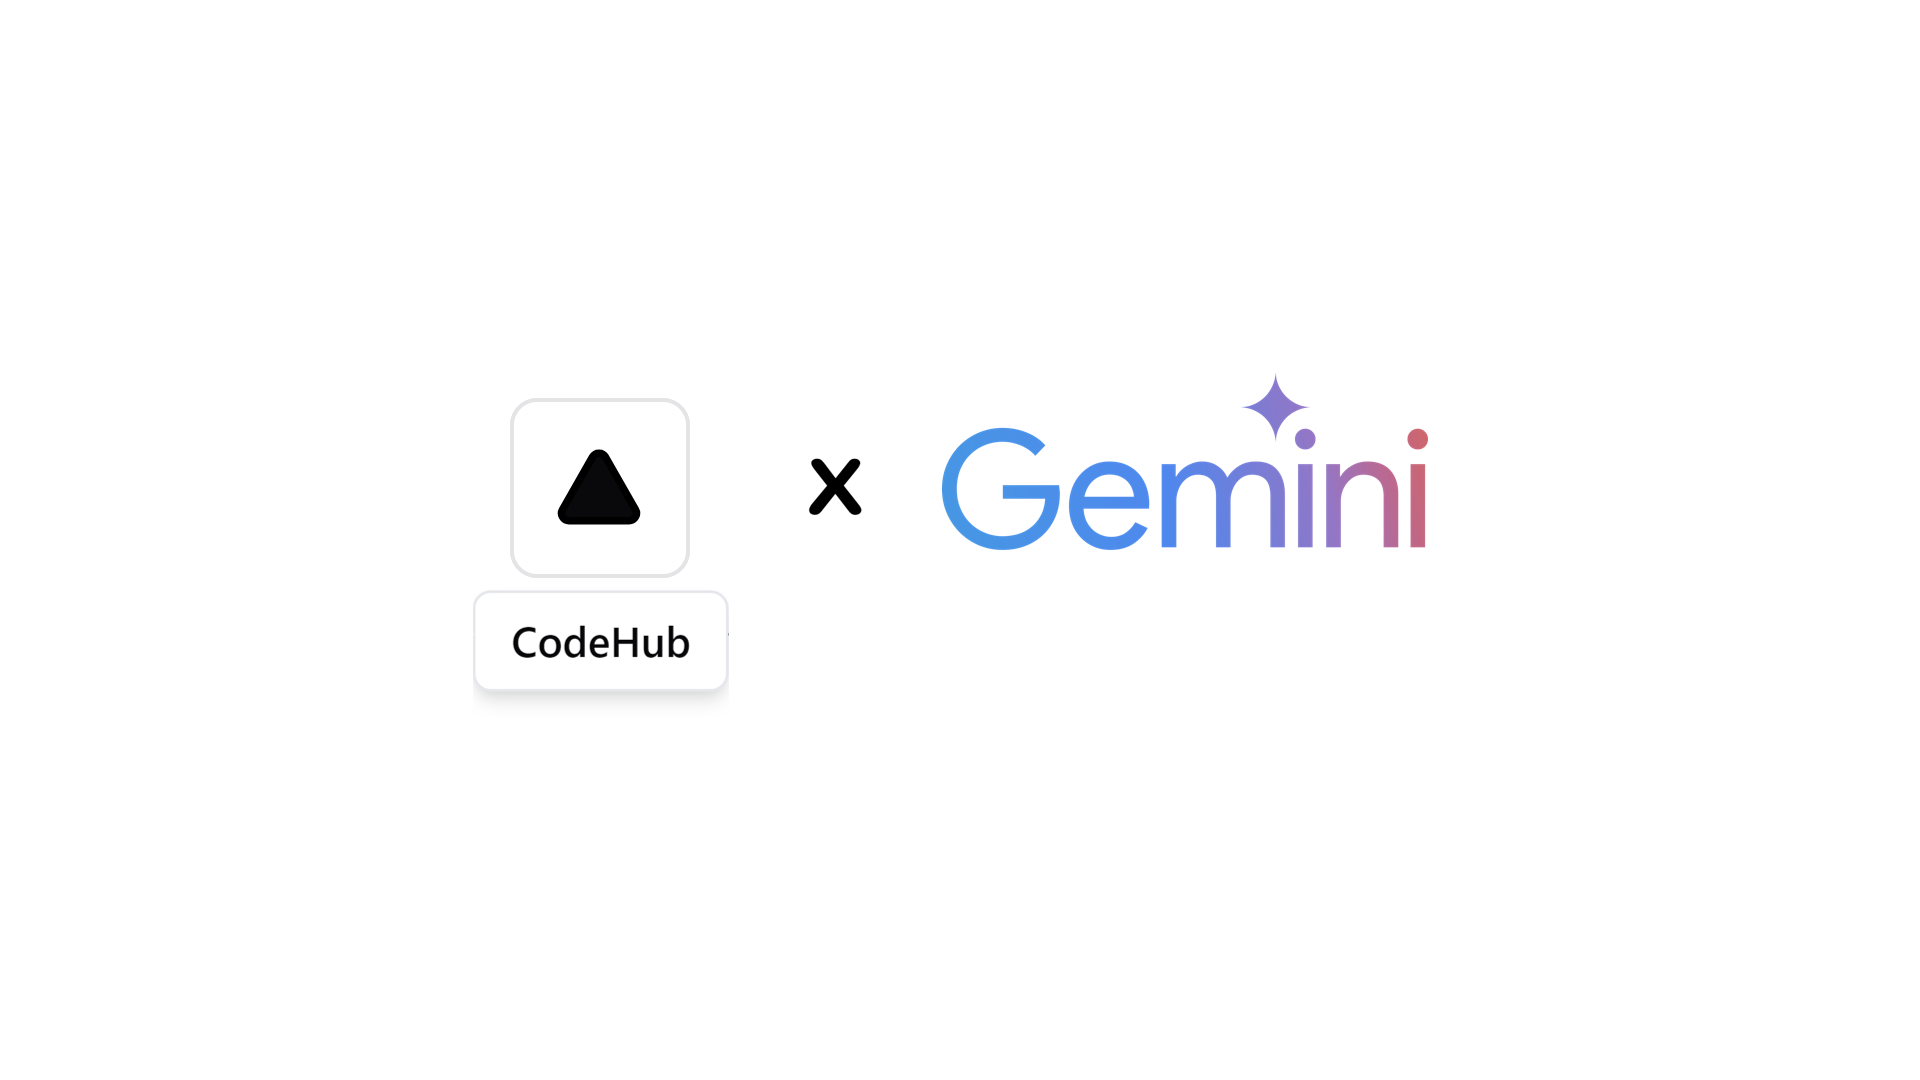
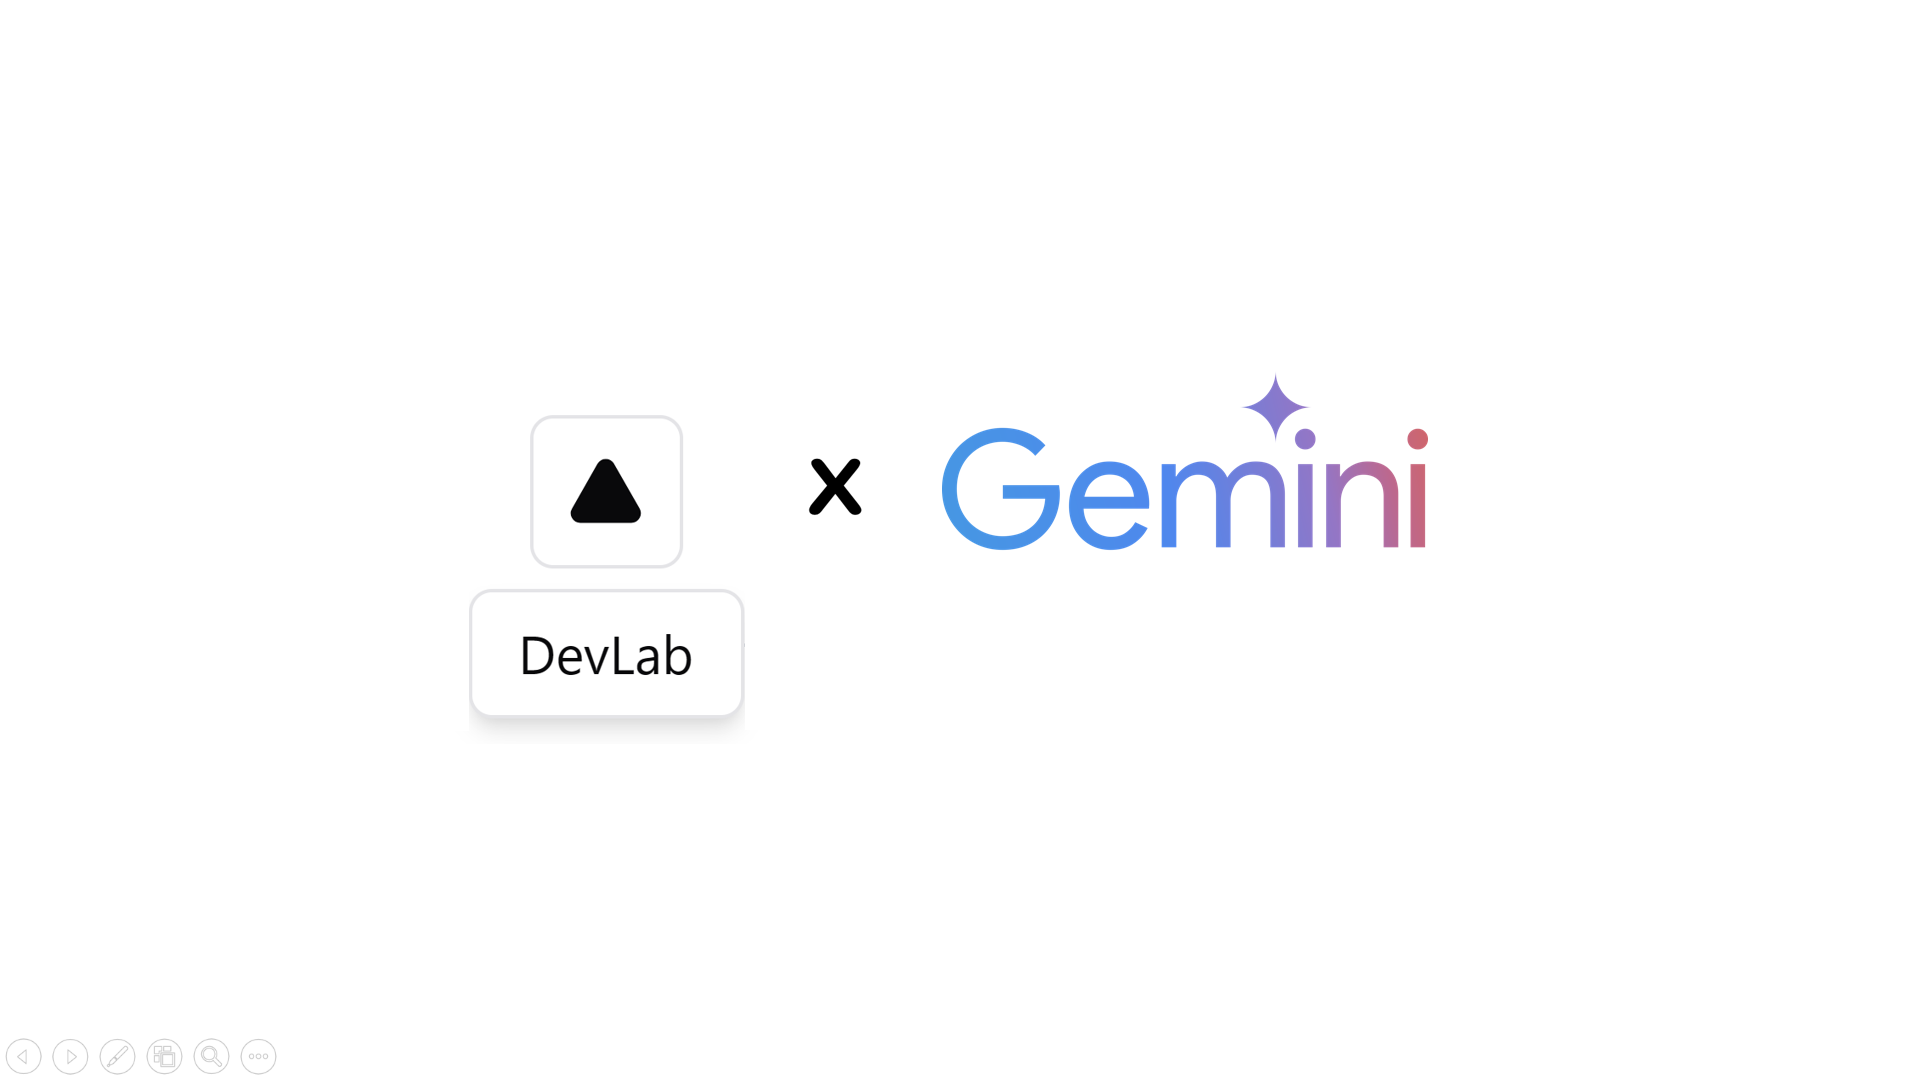
Some minor adjustments

diff --git a/app/src/container/Home/pages/IndexHome/components/PlanOptions.jsx b/app/src/container/Home/pages/IndexHome/components/PlanOptions.jsx
@@ -1,0 +1,124 @@
+import { Check } from 'lucide-react';
+
+const tiers = [
+    {
+        name: 'Starter',
+        id: 'tier-starter',
+        href: '#',
+        priceMonthly: 'Free',
+        description: "The perfect plan to kickstart your learning journey with DevLab.",
+        features: [' Access to basic courses (e.g., Introduction to Python, Java, and C++)', ' Solve coding challenges up to intermediate difficulty', 'Run and test code in 5 programming languages', 'AI-based feedback on 10 submissions per month', 'Community access for peer learning'],
+        featured: false,
+    },
+    {
+        name: 'Pro',
+        id: 'tier-Pro',
+        href: '#',
+        priceMonthly: '$9.99',
+        description: 'Take your coding skills to the next level with our Pro Plan. Enjoy advanced features designed for serious learners and professionals.',
+        features: [
+            'Access to all advanced courses (e.g., Data Structures, Algorithms, and System Design)',
+            'Unlimited access to coding challenges',
+            'AI-based feedback on unlimited submissions',
+            'Detailed code execution visualization',
+            'Custom integrationsExclusive insights into your learning progress',
+            'Priority support (24/7)',
+        ],
+        featured: true,
+    },
+]
+
+function plans(...classes) {
+    return classes.filter(Boolean).join(' ')
+}
+
+export default function PlanOptions() {
+    return (
+        <div className="relative isolate bg-white px-6 py-16 sm:py-16 lg:px-8">
+            <div aria-hidden="true" className="absolute inset-x-0 -top-3 -z-10 transform-gpu overflow-hidden px-36 blur-3xl">
+                <div
+                    style={{
+                        clipPath:
+                            'polygon(74.1% 44.1%, 100% 61.6%, 97.5% 26.9%, 85.5% 0.1%, 80.7% 2%, 72.5% 32.5%, 60.2% 62.4%, 52.4% 68.1%, 47.5% 58.3%, 45.2% 34.5%, 27.5% 76.7%, 0.1% 64.9%, 17.9% 100%, 27.6% 76.8%, 76.1% 97.7%, 74.1% 44.1%)',
+                    }}
+                    className="mx-auto aspect-[1155/678] w-[72.1875rem] bg-gradient-to-tr from-[#ff80b5] to-[#9089fc] opacity-30"
+                />
+            </div>
+            <div className="mx-auto max-w-4xl text-center">
+                <h2 className="text-base/7 font-bold text-indigo-600">Pricing</h2>
+                <p className="mt-2 text-balance text-5xl font-semibold tracking-tight text-gray-900 sm:text-6xl">
+                    Choose the right plan for you
+                </p>
+            </div>
+            <p className="mx-auto mt-6 max-w-2xl text-pretty text-center text-lg font-medium text-gray-600 sm:text-xl/8">
+                Choose a plan that fits your learning journey, packed with features to enhance your coding skills, boost your confidence, and accelerate your career.
+            </p>
+            <div className="mx-auto mt-16 grid max-w-lg grid-cols-1 items-center gap-y-6 sm:mt-20 sm:gap-y-0 lg:max-w-4xl lg:grid-cols-2">
+                {tiers.map((tier, tierIdx) => (
+                    <div
+                        key={tier.id}
+                        className={plans(
+                            tier.featured ? 'relative bg-gray-900 shadow-2xl' : 'bg-white/60 sm:mx-8 lg:mx-0',
+                            tier.featured
+                                ? ''
+                                : tierIdx === 0
+                                    ? 'rounded-t-3xl sm:rounded-b-none lg:rounded-bl-3xl lg:rounded-tr-none'
+                                    : 'sm:rounded-t-none lg:rounded-bl-none lg:rounded-tr-3xl',
+                            'rounded-3xl p-8 ring-1 ring-gray-900/10 sm:p-10',
+                        )}
+                    >
+                        <h3
+                            id={tier.id}
+                            className={plans(tier.featured ? 'text-indigo-400' : 'text-indigo-600', 'text-base/7 font-semibold')}
+                        >
+                            {tier.name}
+                        </h3>
+                        <p className="mt-4 flex items-baseline gap-x-2">
+                            <span
+                                className={plans(
+                                    tier.featured ? 'text-white' : 'text-gray-900',
+                                    'text-5xl font-semibold tracking-tight',
+                                )}
+                            >
+                                {tier.priceMonthly}
+                            </span>
+                            <span className={plans(tier.featured ? 'text-gray-400' : 'text-gray-500', 'text-base')}>/month</span>
+                        </p>
+                        <p className={plans(tier.featured ? 'text-gray-300' : 'text-gray-600', 'mt-6 text-base/7')}>
+                            {tier.description}
+                        </p>
+                        <ul
+                            role="list"
+                            className={plans(
+                                tier.featured ? 'text-gray-300' : 'text-gray-600',
+                                'mt-8 space-y-3 text-sm/6 sm:mt-10',
+                            )}
+                        >
+                            {tier.features.map((feature) => (
+                                <li key={feature} className="flex gap-x-3">
+                                    <Check
+                                        aria-hidden="true"
+                                        className={plans(tier.featured ? 'text-indigo-400' : 'text-indigo-600', 'h-6 w-5 flex-none')}
+                                    />
+                                    {feature}
+                                </li>
+                            ))}
+                        </ul>
+                        <a
+                            href={tier.href}
+                            aria-describedby={tier.id}
+                            className={plans(
+                                tier.featured
+                                    ? 'bg-indigo-500 text-white shadow-sm hover:bg-indigo-400 focus-visible:outline-indigo-500'
+                                    : 'text-indigo-600 ring-1 ring-inset ring-indigo-200 hover:ring-indigo-300 focus-visible:outline-indigo-600',
+                                'mt-8 block rounded-md px-3.5 py-2.5 text-center text-sm font-semibold focus-visible:outline focus-visible:outline-2 focus-visible:outline-offset-2 sm:mt-10',
+                            )}
+                        >
+                            Get started today
+                        </a>
+                    </div>
+                ))}
+            </div>
+        </div>
+    )
+}

diff --git a/app/src/container/playground/Playground.jsx b/app/src/container/playground/Playground.jsx
@@ -280,7 +280,7 @@ const FileUploadAndDisplay = () => {
 				break;
 			default:
 				promptPrefix =
-					'Pretending you are an AI coding assistant named CodeHub.';
+					'Pretending you are an AI coding assistant named DevLab.';
 				break;
 		}
 
@@ -427,7 +427,7 @@ const FileUploadAndDisplay = () => {
 						{
 							parts: [
 								{
-									text: `Imagine you are an AI coding assistant named CodeHub. Analyze the following file contents and provide a detailed review based on these categories:\n\nSyntax analysis\nFunction definition check\nLogic analysis\nEfficiency\nReadability.\n\nGive me a detailed review for each category. Answer in this format. Keep it brief and concise, short and simple:\n\nSyntax analysis: ...\nFunction definition check: ...\nLogic analysis: ...\nEfficiency: ...\nReadability: ...\nRecommendations: ...\n\nCode:\n${selectedFile.content}`,
+									text: `Imagine you are an AI coding assistant named DevLab. Analyze the following file contents and provide a detailed review based on these categories:\n\nSyntax analysis\nFunction definition check\nLogic analysis\nEfficiency\nReadability.\n\nGive me a detailed review for each category. Answer in this format. Keep it brief and concise, short and simple:\n\nSyntax analysis: ...\nFunction definition check: ...\nLogic analysis: ...\nEfficiency: ...\nReadability: ...\nRecommendations: ...\n\nCode:\n${selectedFile.content}`,
 								},
 							],
 						},

diff --git a/app/src/container/Home/pages/IndexHome/IndexHome.jsx b/app/src/container/Home/pages/IndexHome/IndexHome.jsx
@@ -11,6 +11,7 @@ import { Button } from '@/components/ui/button';
 import { motion } from 'framer-motion';
 import { Play } from 'lucide-react'
 import BackgroundCircles from './components/BackgroundCircles.jsx';
+import PlanOptions from './components/PlanOptions.jsx';
 
 const IndexHome = () => {
 	const [color, setColor] = useState("#000000");
@@ -56,7 +57,7 @@ const IndexHome = () => {
 					</Button>
 					<Button asChild size='sm' className="inline-flex items-center px-6 py-3 rounded-full bg-black text-white font-medium hover:bg-gray-800 transition-colors">
 						<motion.a
-							href='https://github.com/LeTranTrongNghia/CodeHub_BaseProject'
+							href='https://github.com/LeTranTrongNghia/CodeHub_BaseProject.git'
 							initial="initial"
 							animate="open"
 							variants={animate}
@@ -72,6 +73,7 @@ const IndexHome = () => {
 			</section>
 			<BentoGrid />
 			<InfoLanding />
+			<PlanOptions />
 			<Footer />
 		</ReactLenis>
 	);

diff --git a/app/src/components/Course/CourseList.jsx b/app/src/components/Course/CourseList.jsx
@@ -117,9 +117,9 @@ const CourseList = () => {
         {/* Hero Banner */}
         <div className="col-span-4 relative bg-purple-500 rounded-lg overflow-hidden h-[300px] flex">
           <Card className="w-1/2 z-10 bg-white p-6 rounded-lg m-10">
-            <h2 className="text-2xl font-bold mb-2">Master Programming with CodeHub</h2>
+            <h2 className="text-2xl font-bold mb-2">Master Programming with DevLab</h2>
             <p className="text-gray-600 mb-4">
-              From basics to advanced, CodeHub provides interactive courses and intelligent support to accelerate your coding journey.
+              From basics to advanced, DevLab provides interactive courses and intelligent support to accelerate your coding journey.
             </p>
             <Button variant="default" className="bg-black text-white hover:bg-gray-800">
               Learn more

diff --git a/app/src/container/Home/pages/IndexHome/components/Header.jsx b/app/src/container/Home/pages/IndexHome/components/Header.jsx
@@ -33,7 +33,7 @@ const Header = () => {
 						<span
 							className={`inline animate-gradient bg-gradient-to-r from-[#ffaa40] via-[#9c40ff] to-[#ffaa40] bg-[length:var(--bg-size)_100%] bg-clip-text text-transparent`}
 						>
-							Introducing CodeHub
+							Introducing DevLab
 						</span>
 						<ChevronRight className="ml-1 size-3 transition-transform duration-300 ease-in-out group-hover:translate-x-0.5" />
 					</AnimatedGradientText>
@@ -43,7 +43,7 @@ const Header = () => {
 					Unlock{' '}
 					<span className="text-[#4945FF] font-extrabold">programming</span> mastery through{' '}
 					AI learning platform{' '}
-					<SparklesText className="text-[#4945FF]" text="CodeHub" />
+					<SparklesText className="text-[#4945FF]" text="DevLab" />
 				</motion.h1>
 
 				<motion.p variants={animate} className="text-xl text-gray-600 max-w-2xl mx-auto">

diff --git a/app/src/container/Community/components/HeaderCommunity.jsx b/app/src/container/Community/components/HeaderCommunity.jsx
@@ -25,12 +25,12 @@ const HeaderCommunity = () => {
                                 </Button>
                             </TooltipTrigger>
                             <TooltipContent side='bottom' sideOffset={5}>
-                                <p>CodeHub</p>
+                                <p>DevLab</p>
                             </TooltipContent>
                         </Tooltip>
                     </TooltipProvider>
                 </div>
-                <h1 className="text-2xl font-bold">CodeHub</h1>
+                <h1 className="text-2xl font-bold">DevLab</h1>
                 <nav className="hidden md:flex space-x-4">
                     <Button variant="ghost"><a href="/courses">Learn</a></Button>
                     <Button variant="ghost"><a href="/problems">Practice</a></Button>

diff --git a/app/src/container/Home/pages/IndexHome/components/TopBar.jsx b/app/src/container/Home/pages/IndexHome/components/TopBar.jsx
@@ -41,12 +41,12 @@ const TopBar = () => {
 										</Button>
 									</TooltipTrigger>
 									<TooltipContent side='bottom' sideOffset={5}>
-										<p>CodeHub</p>
+										<p>DevLab</p>
 									</TooltipContent>
 								</Tooltip>
 							</TooltipProvider>
 						</div>
-						<h1 className='ml-2 text-xl font-semibold'>CodeHub</h1>
+						<h1 className='ml-2 text-xl font-semibold'>DevLab</h1>
 					</div>
 
 					<div className="hidden md:flex items-center space-x-8">
@@ -73,7 +73,7 @@ const TopBar = () => {
 						</a>
 					</div>
 					<div className='mr-0'>
-						<a href='https://github.com/tsdevtool/CodeHub_BaseProject.git'>
+						<a href='https://github.com/LeTranTrongNghia/CodeHub_BaseProject.git'>
 							<TooltipProvider>
 								<Tooltip>
 									<TooltipTrigger asChild>

diff --git a/app/src/container/Home/pages/MainHome/support.jsx b/app/src/container/Home/pages/MainHome/support.jsx
@@ -23,7 +23,7 @@ const ContactPage = () => {
 		const templateParams = {
 			from_name: name,
 			user_email: email,
-			to_name: 'TrongNghia from CodeHub',
+			to_name: 'TrongNghia from DevLab',
 			message: message,
 		};
 
@@ -57,7 +57,7 @@ const ContactPage = () => {
 							<p className='text-sm text-muted-foreground'>
 								<p>
 									<a href='/' className='underline text-black'>
-										CodeHub
+										DevLab
 									</a>{' '}
 									is all about empowering you to learn and create with AI. Feel
 									free to reach out with any questions, feedback, or

diff --git a/app/src/container/Home/pages/IndexHome/components/Footer.jsx b/app/src/container/Home/pages/IndexHome/components/Footer.jsx
@@ -44,7 +44,7 @@ const Footer = () => {
 					</p>
 
 					<div className='flex items-center gap-3'>
-						<a href='https://github.com/tsdevtool/CodeHub_BaseProject.git'>
+						<a href='https://github.com/LeTranTrongNghia/CodeHub_BaseProject.git'>
 							<TooltipProvider>
 								<Tooltip>
 									<TooltipTrigger asChild>

diff --git a/app/src/components/MainHome/Sidebar.jsx b/app/src/components/MainHome/Sidebar.jsx
@@ -27,7 +27,7 @@ const Sidebar = () => {
               </Button>
             </TooltipTrigger>
             <TooltipContent side="right" sideOffset={5}>
-              <p>CodeHub</p>
+              <p>DevLab</p>
             </TooltipContent>
           </Tooltip>
         </TooltipProvider>

diff --git a/app/src/components/Admin/Sidebar.jsx b/app/src/components/Admin/Sidebar.jsx
@@ -35,7 +35,7 @@ const Sidebar = () => {
 							</Button>
 						</TooltipTrigger>
 						<TooltipContent side='right' sideOffset={5}>
-							<p>CodeHub Admin</p>
+							<p>DevLab Admin</p>
 						</TooltipContent>
 					</Tooltip>
 				</TooltipProvider>
